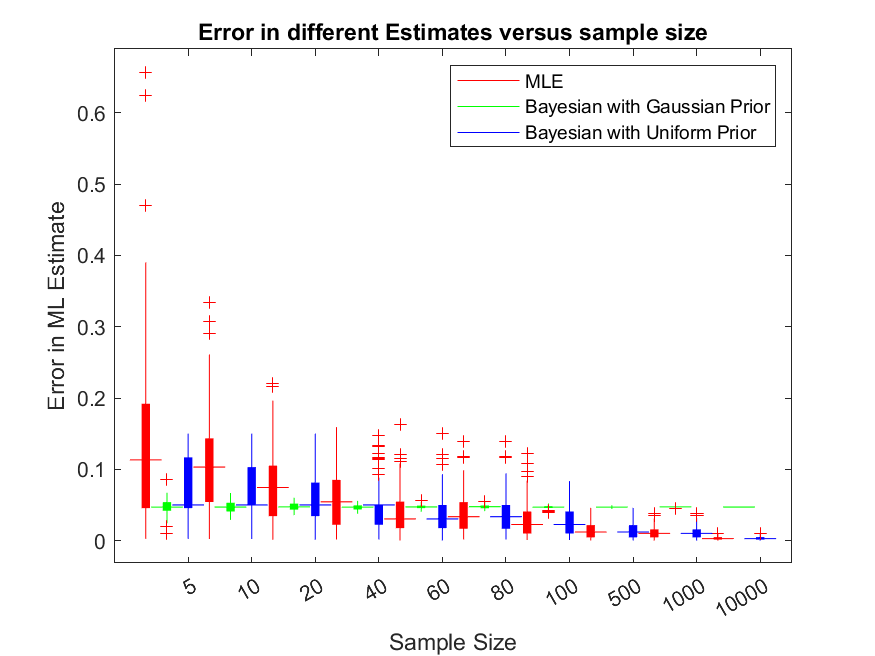
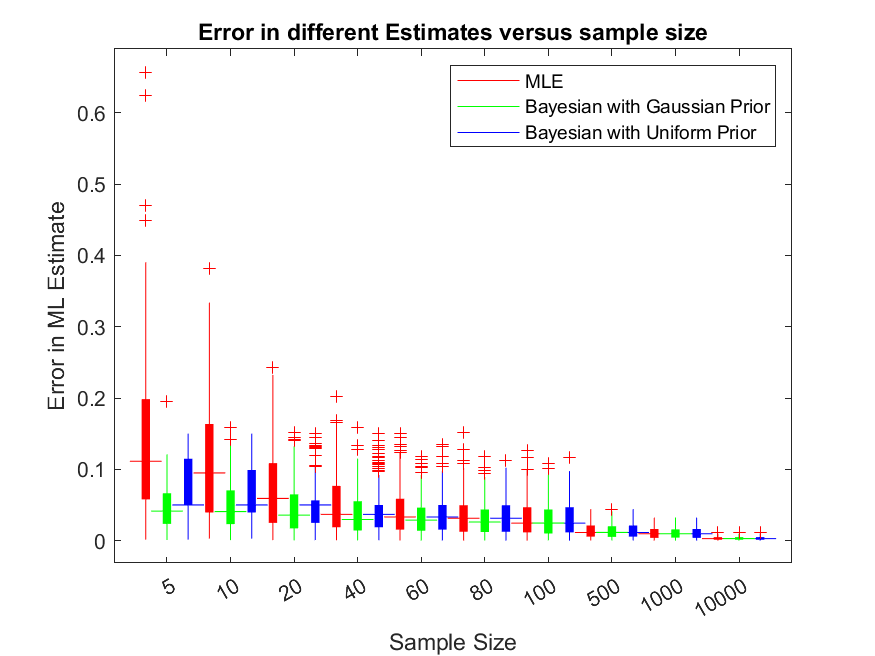
Final, corrected some bugs and un-hardcoded value of M

diff --git a/Assignment 3/assignment_Bayesian_Estimation/code/Q1.m b/Assignment 3/assignment_Bayesian_Estimation/code/Q1.m
@@ -4,20 +4,13 @@ std_dev = 4;
 mean_val= 10;
 v = {5,10,20,40,60,80,100,500,1000,10000};
 n = size(v,2);
-ML_errors = zeros(n,100,'double');
-PM_errors_1 = zeros(n,100,'double');
-PM_errors_2 = zeros(n,100,'double');
-position_1 = zeros(n, 1, 'double');
-position_2 = zeros(n, 1, 'double');
-position_3 = zeros(n, 1, 'double');
-for i = 1:n
-    position_1(i) = 6*i;
-    position_2(i) = 6*i+2;
-    position_3(i) = 6*i+4;
-end
+samples = 200;
+ML_errors = zeros(n,samples,'double');
+PM_errors_1 = zeros(n,samples,'double');
+PM_errors_2 = zeros(n,samples,'double');
 
 for i = 1:n
-    [x,y,z] = error_arr(v{i}, mean_val, std_dev);
+    [x,y,z] = error_arr(v{i}, mean_val, std_dev, samples);
     ML_errors(i,:) = x;
     PM_errors_1(i,:) = y;
     PM_errors_2(i,:) = z;
@@ -27,7 +20,14 @@ v_str = cell(1,n);
 for i = 1:n
     v_str{i} = num2str(v{i});
 end
-
+position_1 = zeros(n, 1, 'double');
+position_2 = zeros(n, 1, 'double');
+position_3 = zeros(n, 1, 'double');
+for i = 1:n
+    position_1(i) = 6*i;
+    position_2(i) = 6*i+2;
+    position_3(i) = 6*i+4;
+end
 f = figure();
 b1= boxplot(ML_errors.','positions', position_1,'labels', v_str, 'boxstyle', 'filled', 'color', 'r');
 title('Error in different Estimates versus sample size')
@@ -35,21 +35,21 @@ xlabel('Sample Size')
 ylabel('Error in ML Estimate')
 
 hold on
+b3= boxplot(PM_errors_2.','positions', position_3,'labels', v_str, 'boxstyle', 'filled', 'color', 'b');
+hold on
 
 b2= boxplot(PM_errors_1.','positions', position_2,'labels', v_str, 'boxstyle', 'filled', 'color', 'g');
 
-hold on
 
-b3= boxplot(PM_errors_2.','positions', position_3,'labels', v_str, 'boxstyle', 'filled', 'color', 'b');
 hLegend = legend([b1(1), b2(1), b3(1)], {'MLE','Bayesian with Gaussian Prior', 'Bayesian with Uniform Prior'});
 
 saveas(f, "Q1.png")
 
-function [eaML, eaPM_1, eaPM_2] = error_arr (N, mean_val, std_dev)
-    eaML = zeros(100,1,'double');
-    eaPM_1 = zeros(100,1,'double');
-    eaPM_2 = zeros(100,1,'double');
-    for i = 1:100
+function [eaML, eaPM_1, eaPM_2] = error_arr (N, mean_val, std_dev, samples)
+    eaML = zeros(samples,1,'double');
+    eaPM_1 = zeros(samples,1,'double');
+    eaPM_2 = zeros(samples,1,'double');
+    for i = 1:samples
         d = dataset(N, mean_val, std_dev);
         eaML(i) = abs(lambda_ML(d) - mean_val)/mean_val;
         eaPM_1(i) = abs(lambda_PosteriorMean_1(d,10.5, 1, std_dev) - mean_val)/mean_val;
@@ -63,7 +63,7 @@ end
 function lpm = lambda_PosteriorMean_1(dat, prior_mean, prior_stddev, std_dev)
     n = size(dat,1);
     sample_mean = sum(dat)/n;
-    lpm = (sample_mean*prior_stddev*prior_stddev+prior_mean*std_dev*std_dev)/(std_dev*std_dev+prior_stddev*prior_stddev);
+    lpm = (sample_mean*prior_stddev*prior_stddev+prior_mean*std_dev*std_dev/n)/(std_dev*std_dev/n+prior_stddev*prior_stddev);
 end
 
 function lpm = lambda_PosteriorMean_2(dat, left, right)

diff --git a/Assignment 3/assignment_Bayesian_Estimation/code/Q2.m b/Assignment 3/assignment_Bayesian_Estimation/code/Q2.m
@@ -3,12 +3,19 @@ rng(1);
 
 v = {5,10,20,40,60,80,100,500,1000,10000};
 n = size(v,2);
-ML_errors = zeros(n,100,'double');
-PM_errors = zeros(n,100,'double');
+samples = 200;
+
+ML_errors = zeros(n,samples,'double');
+PM_errors = zeros(n,samples,'double');
 for i = 1:n
-    [x,y] = error_arr(v{i});
+    [x,y] = error_arr(v{i}, samples);
     ML_errors(i,:) = x;
     PM_errors(i,:) = y;
+end
+
+v_str = cell(1,n);
+for i = 1:n
+    v_str{i} = num2str(v{i});
 end
 position_1 = zeros(n, 1, 'double');
 position_2 = zeros(n, 1, 'double');
@@ -16,27 +23,22 @@ for i = 1:n
     position_1(i) = 4*i;
     position_2(i) = 4*i+2;
 end
-v_str = cell(1,n);
-for i = 1:n
-    v_str{i} = num2str(v{i});
-end
-
 f = figure();
-b1 = boxplot(ML_errors.','positions', position_1,'labels', v_str, 'boxstyle', 'filled', 'color', 'r')
+b1 = boxplot(ML_errors.','positions', position_1,'labels', v_str, 'boxstyle', 'filled', 'color', 'r');
 
 title('Error comparison of ML Estimate and Bayesian Estimate versus sample size')
 xlabel('Sample Size')
 ylabel('Error')
 hold on
-b2 = boxplot(PM_errors.','positions', position_2,'labels', v_str, 'boxstyle', 'filled', 'color', 'b')
+b2 = boxplot(PM_errors.','positions', position_2,'labels', v_str, 'boxstyle', 'filled', 'color', 'b');
 hLegend = legend([b1(1), b2(1)], {'MLE','Bayesian'});
 saveas(f, "Q2.png")
 
 
-function [eaML, eaPM] = error_arr (N)
-    eaML = zeros(100,1,'double');
-    eaPM = zeros(100,1,'double');
-    for i = 1:100
+function [eaML, eaPM] = error_arr (N,samples)
+    eaML = zeros(samples,1,'double');
+    eaPM = zeros(samples,1,'double');
+    for i = 1:samples
         d = dataset(N);
         eaML(i) = 0.2*abs(lambda_ML(d) - 5);
         eaPM(i) = 0.2*abs(lambda_PosteriorMean(d,5.5,1) - 5);
